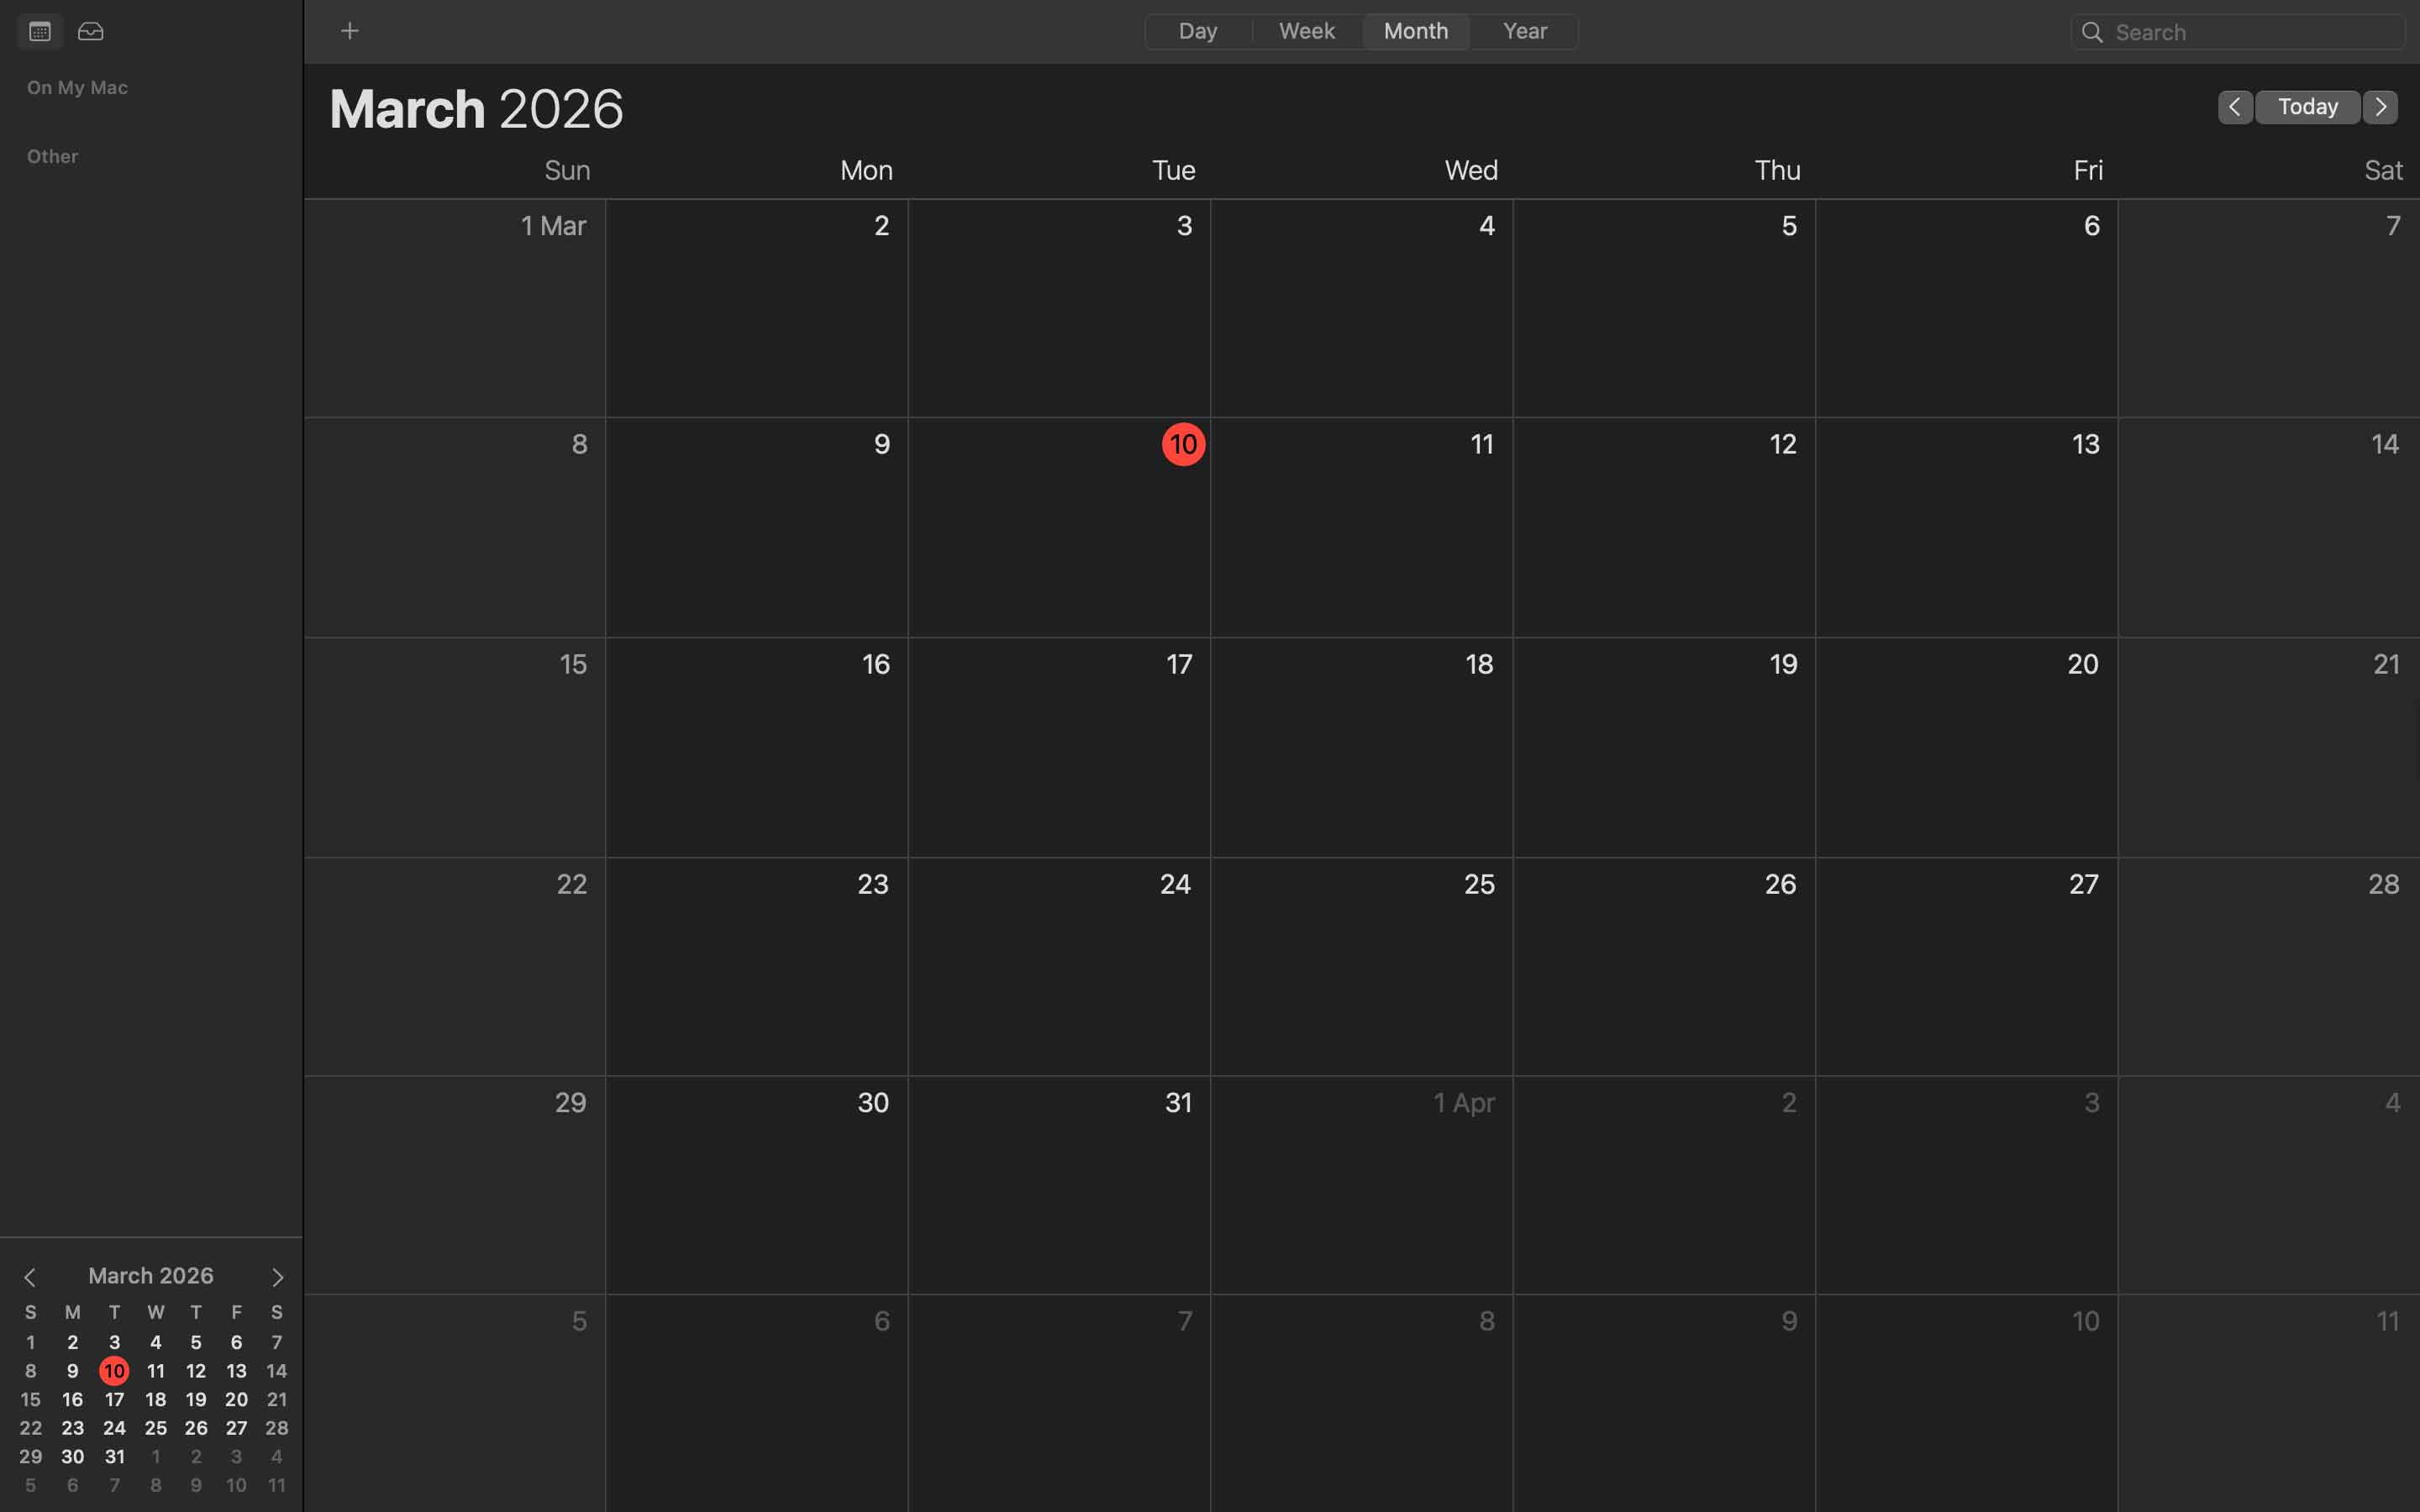
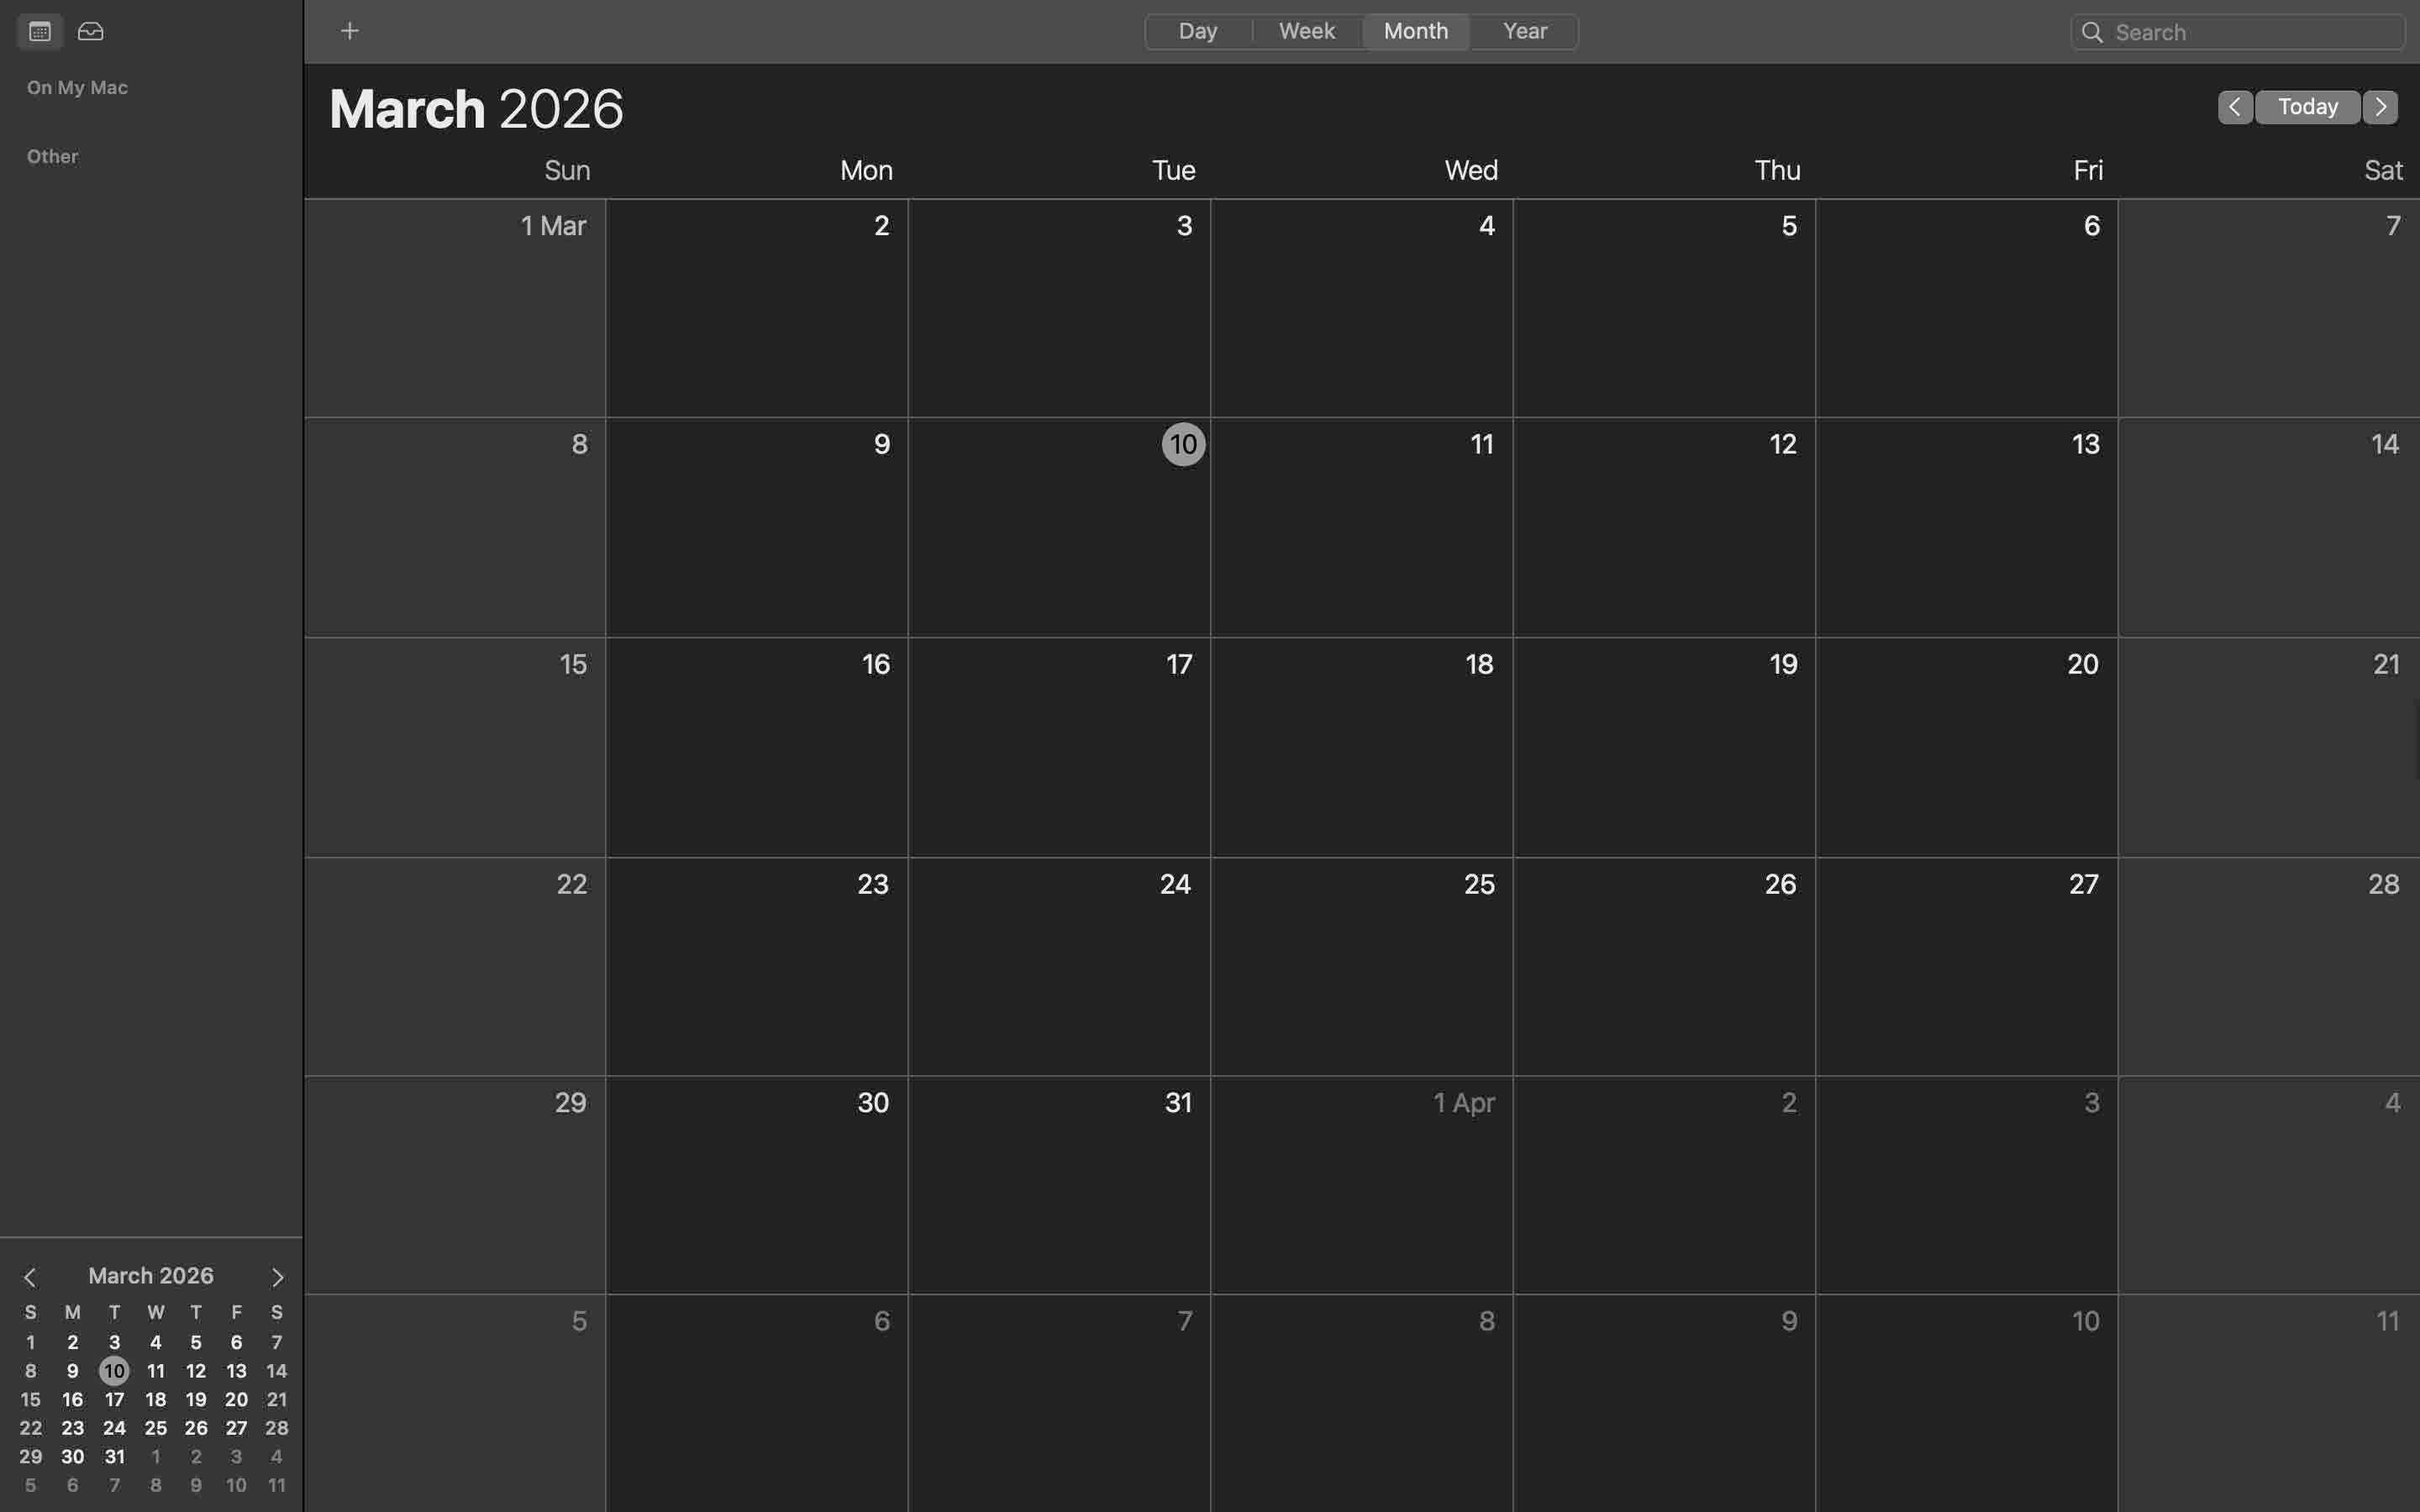
and again

diff --git a/index.html b/index.html
@@ -80,7 +80,12 @@
             Chronos time⁴, this means that time is measured horizontally from one point to the other, and the space in
             between. This way of perceiving time in the design industry can be experienced with the word “deadline”,
             literally the death of the line, it’s used to Wmeasure a project length, beginning and ending, framing
-            creativity into a time structure. <br> <br>
+            creativity into a time structure. <br>
+            <div class="image-item">
+                <img src="/assets/images/chronos_B&W.jpg" alt="chronos">
+              <p class="foto-descriptions">Chronos</p>
+              </div>
+              <br>
             Deadlines alienate us from our creative power forcing the designer to make decisions based on the time they
             have left rather then decisions based on the quality of the outcome.⁵ This is how most work inside companies
             is organised nowadays focusing on the speed on which tasks are performed. This way of working can be traced
@@ -117,15 +122,20 @@
                 <p class="foto-descriptions">Monolito de la Piedra del Sol</p>
               </div>
             </div>
-            Early calendars were often circular to represent cyclical time and functioned as perpetual tools, they could
+            <p>Early calendars were often circular to represent cyclical time and functioned as perpetual tools, they could
             be used for several years, and served for calculating dates rather than planning daily activities, the
             visualisation of this calendars can be associated to the greek deity Aion¹¹ that represents cyclical time,
-            this is a more natural way for humans to perceive time since that’s how nature works. <br><br>
+            this is a more natural way for humans to perceive time since that’s how nature works. <br>
+            <div class="image-item">
+                <img src="/assets/images/AIon.jpg" alt="Aion">
+              <p class="foto-descriptions">Aion</p>
+              </div>
+              <br>
             With time, humanity had more information regarding earth cycles, and started to incorporate this information
             into almanacs. Almanacs served as informative books containing the Earth’s cycles in different categories.
             They included information such as weather forecasts, tide predictions, eclipses, the cycles of the Moon, and
             the cycle of the Sun with sunrise and sunset times throughout the year. Religious and prophetic assumptions
-            were also included. We can see an example of an almanac from 1772.¹² 
+            were also included. We can see an example of an almanac from 1772.¹² </p>
             <div class="image-item2">
                 <img src="/assets/images/almanac1773_optimized.jpg" alt="almanac1773">
               <p class="foto-descriptions">The Massachusetts calendar or an almanac for the year of our lord 1772</p>
@@ -219,7 +229,19 @@
           <p>
             The third god of time is Kairos, it refers to vertical time, the amplitude or depth that can be found in
             chronos & Aion.²⁷ This amplitude is what makes our perception of time expand and contract, that’s why we
-            don’t feel time only in a linear way.<br><br>
+            don’t feel time only in a linear way.<br>
+            <div class="images">
+              <div class="image-item">
+                <img src="/assets/images/Chronos&Kaioros_B&W.jpg" alt="Chronos&Kairos">
+              <p class="foto-descriptions">Chronos&Kairos</p>
+              </div>
+              <div class="image-item">
+                <img src="/assets/images/Aion&Kairos.jpg" alt="Aion&Kairos">
+                
+                <p class="foto-descriptions">Aion&Kairos</p>
+              </div>
+            </div>
+            <br>
             As designers, we carry a responsibility to change how design is viewed and used, together we can create more
             amplitude in our time. We have to unite and stay united with our convictions and stay close to what gives us
             freedom of expression to set an example of how society can and should change its modes of production to
@@ -259,88 +281,85 @@
         </section>
         <section id="references" class="references">
           <h1>REFERENCES</h1>
-          <p>[1] Le Guin, Ursula K. ‘The Carrier Bag Theory of Fiction’. In Women of vision. By Internet Archive, archive.org/details/womenofvision00dupo/page/n7/mode/2up, p. 2.
+          <p>[1] Le Guin, Ursula K. ‘The Carrier Bag Theory of Fiction’. In <span class="italic">Women of vision</span>. By <span class="italic">Internet Archive</span>, <a href="https://archive.org/details/womenofvision00dupo/mode/2up" target="_blank">archive.org/details/womenofvision00dupo/page/n7/mode/2up</a>, p. 2.
             <br>
-            [2] Pater, Ruben. ‘The designer as worker.’ In *Caps Lock.* Edited by Leo Reijnen, p. 241. Amsterdam: Valiz,
+            [2] Pater, Ruben. ‘The designer as worker.’ In <span class="italic">Caps Lock.</span> Edited by Leo Reijnen, p. 241. Amsterdam: Valiz,
             2021.
             <br>
-            [3] Thompson, E. P. ‘Time, work-discipline, and Industrial capitalism’. *By Tems**,***
-            tems.umn.edu/pdf/EPThompson-PastPresent.pdf, p. 3.
+            [3] Thompson, E. P. ‘Time, work-discipline, and Industrial capitalism’. By <span class="italic">Tems</span>, <a href="http://tems.umn.edu/pdf/EPThompson-PastPresent.pdf" target="_blank">tems.umn.edu/pdf/EPThompson-PastPresent.pdf</a>, p. 3.
             <br>
-            [4] Hickman, Daniel. ‘Chronos, Kairos, and Cyclical Time.’ *By Love Alone,* 24 January 2026,
-            bylovealone.substack.com/p/chronos-kairos-and-cyclical-time, accessed 3 February 2026.
+            [4] Hickman, Daniel. ‘Chronos, Kairos, and Cyclical Time.’ By <span class="italic">Love Alone</span>, 24 January 2026,
+            <a href="https://bylovealone.substack.com/p/chronos-kairos-and-cyclical-time" target="_blank">bylovealone.substack.com/p/chronos-kairos-and-cyclical-time</a>, accessed 3 February 2026.
             <br>
-            [5] Paeva, Victoria. *‘*Workshop Matters: How Can Access to Co-Workshop Spaces Change a Designer’s
-            Practice.’ In *Commons in Design.* Edited by Christine Schranz, p. 131. Amsterdam: Valiz, 2023.
+            [5] Paeva, Victoria. ‘*Workshop Matters: How Can Access to Co-Workshop Spaces Change a Designer’s
+            Practice.’ In <span class="italic">Commons in Design</span>. Edited by Christine Schranz, p. 131. Amsterdam: Valiz, 2023.
             <br>
-            [6] Pater, Ruben. ‘The designer as worker.’ In *Caps Lock.* Edited by Leo Reijnen, p. 248. Amsterdam: Valiz,
+            [6] Pater, Ruben. ‘The designer as worker.’ In <span class="italic">Caps Lock</span>. Edited by Leo Reijnen, p. 248. Amsterdam: Valiz,
             2021.
             <br>
-            [7] Gowen, Amy and Andy Norstrom, ‘Expansive Publishing Strategies’. *HumDrumPress,*
-            humdrumpress.com/eps-about, accessed 30 March 2026.
+            [7] Gowen, Amy and Andy Norstrom, ‘Expansive Publishing Strategies’. By <span class="italic">HumDrumPress</span>,
+            <a href="https://humdrumpress.com/eps-about" target="_blank">humdrumpress.com/eps-about</a>, accessed 30 March 2026.
             <br>
-            [8] Taxi. ‘Taxi - Chiclete’. *YouTube*, uploaded by TaxiVEVO, 1981 Universal Music Portugal, S.A, 11
-            September 2017, https://www.youtube.com/watch?v=qc0ZwEDGq6U&list=RDqc0ZwEDGq6U&start_radio=1, accessed 2
+            [8] Taxi. ‘Taxi - Chiclete’. <span class="italic">YouTube</span>, uploaded by TaxiVEVO, 1981 Universal Music Portugal, S.A, 11
             April 2026.
             <br>
-            [9] British Museum. britishmuseum.org/collection/image/325946001.
+            [9] British Museum. <a href="https://www.britishmuseum.org/collection/image/325946001" target="_blank">britishmuseum.org/collection/image/325946001</a>.
             <br>
-            [10] commons.wikimedia.org/wiki/File:Monolito_de_la_Piedra_del_Sol.jpg.
+            [10] <a href="https://commons.wikimedia.org/wiki/File:Monolito_de_la_Piedra_del_Sol.jpg" target="_blank">commons.wikimedia.org/wiki/File:Monolito_de_la_Piedra_del_Sol.jpg</a>.
             <br>
-            [11] Hickman, Daniel. ‘Chronos, Kairos, and Cyclical Time.’ *By Love Alone,* 24 January 2026,
-            bylovealone.substack.com/p/chronos-kairos-and-cyclical-time, accessed 3 February 2026.
+            [11] Hickman, Daniel. ‘Chronos, Kairos, and Cyclical Time.’ By <span class="italic">Love Alone</span>, 24 January 2026,
+              <a href="https://bylovealone.substack.com/p/chronos-kairos-and-cyclical-time" target="_blank">bylovealone.substack.com/p/chronos-kairos-and-cyclical-time</a>, accessed 3 February 2026.
             <br>
-            [12] Philomathes. ‘The Massachusetts calendar, or an almanac for the year of our Lord, 1772.’ *****By
-            Internet Archive,* archive.org/details/bim_eighteenth-century_the-massachusetts-calend_gleason-ezra_1772,
+            [12] Philomathes. ‘The Massachusetts calendar, or an almanac for the year of our Lord, 1772.’ By
+            <span class="italic">Internet Archive</span>, <a href="https://archive.org/details/bim_eighteenth-century_the-massachusetts-calend_gleason-ezra_1772/page/n5/mode/2up" target="_blank">archive.org/details/bim_eighteenth-century_the-massachusetts-calend_gleason-ezra_1772</a>,
             pp. 5-6. accessed 10 March 2026.
             <br>
-            [13] Gleick, James. *The Toll of the Clock.* copy.exchange/JamesGleick_HistoryOfClocks.pdf, p. 6. accessed
+            [13] Gleick, James. <span class="italic">The Toll of the Clock</span>. <a href="https://copy.exchange/JamesGleick_HistoryOfClocks.pdf" target="_blank">copy.exchange/JamesGleick_HistoryOfClocks.pdf</a>, p. 6. accessed
             21 January 2026.
             <br>
-            [14] Aitken, Robert. ‘Aitken's general American register, for the year of our lord 1773’. *By Internet
-            Archive,* archive.org/details/bim_eighteenth-century_aitkens-general-america_aitken-robert-booksell_1772,
+            [14] Aitken, Robert. ‘Aitken's general American register, for the year of our lord 1773’. By <span class="italic">Internet Archive</span>,
+            <a href="https://archive.org/details/bim_eighteenth-century_aitkens-general-america_aitken-robert-booksell_1772" target="_blank">archive.org/details/bim_eighteenth-century_aitkens-general-america_aitken-robert-booksell_1772</a>,
             pp. 6-7. accessed 27 February 2026.
             <br>
-            [15] Hickel, Jason. ‘Less is More, How Degrowth will save the world.’ *By blackbooksdotpub*,
-            blackbooksdotpub.wordpress.com/wp-content/uploads/2021/08/jason-hickel-less-is-more-random-house-2020.pdf,
+            [15] Hickel, Jason. ‘Less is More, How Degrowth will save the world.’ By <span class="italic">blackbooksdotpub</span>,
+            <a href="https://blackbooksdotpub.wordpress.com/wp-content/uploads/2021/08/jason-hickel-less-is-more-random-house-2020.pdf" target="_blank">blackbooksdotpub.wordpress.com/wp-content/uploads/2021/08/jason-hickel-less-is-more-random-house-2020.pdf</a>,
             p. 50. accessed 3 of April 2026.
             <br>
-            [16] Pater, Ruben. ‘The designer as worker.’ In *Caps Lock.* Edited by Leo Reijnen, p. 245. Amsterdam:
+            [16] Pater, Ruben. ‘The designer as worker.’ In <span class="italic">Caps Lock</span>. Edited by Leo Reijnen, p. 245. Amsterdam:
             Valiz, 2021.
             <br>
-            [17] Gleick, James. *The Toll of the Clock.* copy.exchange/JamesGleick_HistoryOfClocks.pdf, p. 6. accessed
+            [17] Gleick, James. <span class="italic">The Toll of the Clock</span>. <a href="https://copy.exchange/JamesGleick_HistoryOfClocks.pdf" target="_blank">copy.exchange/JamesGleick_HistoryOfClocks.pdf</a>, p. 6. accessed
             21 January 2026.
             <br>
-            [18] Aitken, Robert. ‘Aitken's general American register, for the year of our lord 1773’. *By Internet
-            Archive,* archive.org/details/bim_eighteenth-century_aitkens-general-america_aitken-robert-booksell_1772, p.
+            [18] Aitken, Robert. ‘Aitken's general American register, for the year of our lord 1773’. By <span class="italic">Internet Archive</span>,
+            <a href="https://archive.org/details/bim_eighteenth-century_aitkens-general-america_aitken-robert-booksell_1772" target="_blank">archive.org/details/bim_eighteenth-century_aitkens-general-america_aitken-robert-booksell_1772</a>, p.
             3. accessed 27 February 2026.
             <br>
-            [19] Odell, Jenny. ‘The Case for Nothing’. In *how to do nothing, resisting the attention economy*, *By
-            bpd,*
-            bpb-us-e2.wpmucdn.com/sites.middlebury.edu/dist/a/5353/files/2022/02/Jenny-Odell-How-to-Do-Nothing-excerpt-.pdf,
+            [19] Odell, Jenny. ‘The Case for Nothing’. In <span class="italic">how to do nothing, resisting the attention economy</span>, By
+            <span class="italic">bpd</span>, <a href="https://bpb-us-e2.wpmucdn.com/sites.middlebury.edu/dist/a/5353/files/2022/02/Jenny-Odell-How-to-Do-Nothing-excerpt-.pdf" target="_blank">bpb-us-e2.wpmucdn.com/sites.middlebury.edu/dist/a/5353/files/2022/02/Jenny-Odell-How-to-Do-Nothing-excerpt-.pdf</a>,
             p. 12. accessed 3 of April 2026.
             <br>
             [20] Screenshot from Apple Calendar, 2026.
             <br>
-            [21] Ndiritu, Grace. *Being Together A Manual For Living.* Edited by Grace Ndiritu and Sébastien Tien. Page
+            [21] Ndiritu, Grace. <span class="italic">Being Together A Manual For Living</span>. Edited by Grace Ndiritu and Sébastien Tien. Page
             Not Found.
             <br>
-            [22] Ndiritu, Grace. ‘Daily schedule’. *By The ark center experiment,*
-            thearkcenterexperiment.com/DAILY-SCHEDULE, accessed 2 April 2026.
+            [22] Ndiritu, Grace. ‘Daily schedule’. By <span class="italic">The ark center experiment</span>,
+            <a href="https://thearkcenterexperiment.com/DAILY-SCHEDULE" target="_blank">thearkcenterexperiment.com/DAILY-SCHEDULE</a>, accessed 2 April 2026.
             <br>
-            [23] Gowen, Amy and Andy Norstrom, ‘about’. *HumDrumPress,* humdrumpress.com/eps-about, accessed 30 March
-            2026.
+            [23] Gowen, Amy and Andy Norstrom, ‘about’. <span class="italic">HumDrumPress</span>, <a href="https://humdrumpress.com/eps-about" target="_blank">humdrumpress.com/eps-about</a>, accessed 30 March 2026.
             <br>
-            [24] ‘Who we are’. *By Varia,* varia.zone/en/about/who-we-are/, accessed 2 April 2026.
+            [24] ‘Who we are’. By <span class="italic">Varia</span>, <a href="https://varia.zone/en/about/who-we-are/" target="_blank">varia.zone/en/about/who-we-are/</a>, accessed 2 April 2026.
             <br>
-            [25] ‘Activities’. *By Valiz,* valiz.nl/en/#activities, accessed 2 April 2026.
+            [25] ‘Activities’. By <span class="italic">Valiz</span>, <a href="https://valiz.nl/en/#activities" target="_blank">valiz.nl/en/#activities</a>, accessed 2 April 2026.
             <br>
-            [26] ‘About’, *By velvetyne,* velvetyne.fr/about/, accessed 2 April 2026.
+            [26] ‘About’, By <span class="italic">velvetyne</span>, <a href="https://velvetyne.fr/about/" target="_blank">velvetyne.fr/about/</a>, accessed 2 April 2026.
             <br>
-            [27] Hickman, Daniel. ‘Chronos, Kairos, and Cyclical Time.’ *By Love Alone,* 24 January 2026,
-            bylovealone.substack.com/p/chronos-kairos-and-cyclical-time, accessed 3 February 2026.
+            [27] Hickel, Jason. ‘Less is More, How Degrowth will save the world.’ By <span class="italic">blackbooksdotpub</span>,
+            <a href="https://blackbooksdotpub.wordpress.com/wp-content/uploads/2021/08/jason-hickel-less-is-more-random-house-2020.pdf" target="_blank">blackbooksdotpub.wordpress.com/wp-content/uploads/2021/08/jason-hickel-less-is-more-random-house-2020.pdf</a>,
+            p. 50. accessed 3 of April 2026.
             <br>
-            [28] Pater, Ruben. ‘The designer as worker.’ In *Caps Lock.* Edited by Leo Reijnen, p. 246. Amsterdam:
+            [28] Pater, Ruben. ‘The designer as worker.’ In <span class="italic">Caps Lock</span>. Edited by Leo Reijnen, p. 246. Amsterdam:
             Valiz, 2021.
           </p>
         </section>

diff --git a/assets/css/style.css b/assets/css/style.css
@@ -49,6 +49,7 @@ body {
   
 }
 
+
 .navbar a {
   color: whitesmoke;
   text-decoration: none;
@@ -67,10 +68,15 @@ body {
 }
 
 .abstract {
-  padding: 3rem 20rem 3rem 20rem;
+  padding: 3rem 23rem 3rem 30rem;
   margin: 0 0 20rem 5rem;
   line-height: inherit;
   scroll-margin-top: 4rem;
+
+}
+.abstract p{
+  max-width: 66ch;
+
 }
 
 .cover {
@@ -79,10 +85,13 @@ body {
 }
 
 .chapters {
-  padding: 3rem 23rem 3rem 23rem;
+  padding: 3rem 23rem 3rem 30rem;
   margin: 0 0 0 5rem;
   scroll-margin-top: 4rem;
   line-height: inherit;
+}
+.chapters p {
+    max-width: 66ch;
 }
 
 .images {
@@ -159,9 +168,22 @@ body {
   line-height: inherit;
 }
 
+
 .references p {
   overflow-wrap: anywhere;
   word-break: break-word;
+}
+
+.references a {
+  color: whitesmoke;
+  text-decoration: none;
+}
+
+.references a:hover {
+  color: whitesmoke;
+  text-decoration: none;
+  filter: blur(1px);
+
 }
 
 #rotating-image {
@@ -223,18 +245,18 @@ body {
   }
 
   .image-item img {
-    width: 200px;
-    height: 200px;
+    width: 300px;
+    height: 300px;
   }
 
   #rotating-image {
     position: fixed;
     top: 50%;
-    left: -10%;
+    left: -15%;
     transform: translate(-50%, -50%);
     pointer-events: none;
     z-index: 1;
-    width: 20rem;
+    width: 19rem;
     height: auto;
     max-width: 100vw;
     max-height: 80vh;

diff --git a/assets/css/typography.css b/assets/css/typography.css
@@ -26,6 +26,8 @@ h2{
 
 h3{
   letter-spacing: .02rem;
+    line-height: 1.1rem;
+
   font-size: 1.1rem;
   padding: 0.9rem;
   text-align: center;
@@ -42,8 +44,11 @@ p {
   color: whitesmoke;
 }
 
-.measure {
-max-width: 66ch;
+.italic {
+  font-family: "standard-webfont-italic", Helvetica, Arial, sans-serif;
+  font-size: inherit;
+  line-height: inherit;
+  color: whitesmoke;
 }
 
 .indent {